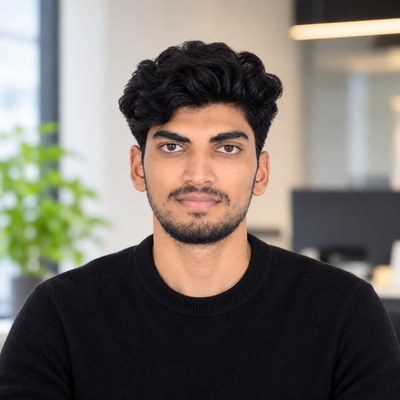
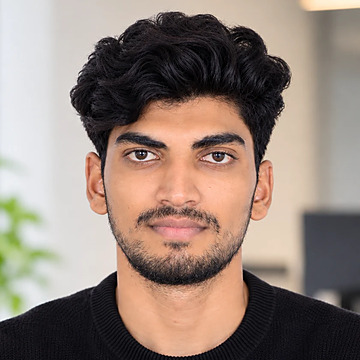
Crop the headshot tight so it stays sharp in the small circles

diff --git a/index.html b/index.html
@@ -92,7 +92,7 @@
                 <a class="btn-cta ghost" href="assets/MohammedJamal_Resume.pdf" target="_blank" rel="noopener"><span class="cta-icon"><svg viewBox="0 0 24 24" fill="none" stroke="currentColor" stroke-width="2.4" aria-hidden="true"><path d="M12 4v12M7 11l5 5 5-5M5 20h14"/></svg></span>Resume (PDF)</a>
             </div>
 
-            <div class="avatar left float"><img src="assets/profile.jpg?v=2" alt="" width="84" height="84"></div>
+            <div class="avatar left float"><img src="assets/profile.jpg?v=3" alt="" width="84" height="84"></div>
             <div class="avatar right float slow"><img src="assets/photography/03.jpg" alt="" width="84" height="84"></div>
         </section>
 
@@ -321,7 +321,7 @@
                 <div class="contact-stage">
                     <div class="me-card rv">
                         <span class="tape tc pink"></span>
-                        <div class="who"><img src="assets/profile.jpg?v=2" alt="" width="36" height="36">Mohammed Jamal</div>
+                        <div class="who"><img src="assets/profile.jpg?v=3" alt="" width="36" height="36">Mohammed Jamal</div>
                         <p>Looking for Product Designer roles at product companies, SaaS startups, and MNCs. Open to Chennai, Bangalore, and remote.</p>
                     </div>
                     <div class="big-card">

diff --git a/case-studies.html b/case-studies.html
@@ -102,7 +102,7 @@
                 <div class="contact-stage">
                     <div class="me-card rv">
                         <span class="tape tc pink"></span>
-                        <div class="who"><img src="assets/profile.jpg?v=2" alt="" width="36" height="36">Mohammed Jamal</div>
+                        <div class="who"><img src="assets/profile.jpg?v=3" alt="" width="36" height="36">Mohammed Jamal</div>
                         <p>Looking for a full-time product or enterprise design role, especially one with the messy, unglamorous problems in it.</p>
                     </div>
                     <div class="big-card">

diff --git a/docvault.html b/docvault.html
@@ -962,7 +962,7 @@
                 <div class="contact-stage">
                     <div class="me-card rv">
                         <span class="tape tc pink"></span>
-                        <div class="who"><img src="assets/profile.jpg?v=2" alt="" width="36" height="36">Mohammed Jamal</div>
+                        <div class="who"><img src="assets/profile.jpg?v=3" alt="" width="36" height="36">Mohammed Jamal</div>
                         <p>Looking for a full-time product or enterprise design role, especially one with the messy, unglamorous problems in it.</p>
                     </div>
                     <div class="big-card">

diff --git a/fuel-buddy.html b/fuel-buddy.html
@@ -626,7 +626,7 @@
                 <div class="contact-stage">
                     <div class="me-card rv">
                         <span class="tape tc pink"></span>
-                        <div class="who"><img src="assets/profile.jpg?v=2" alt="" width="36" height="36">Mohammed Jamal</div>
+                        <div class="who"><img src="assets/profile.jpg?v=3" alt="" width="36" height="36">Mohammed Jamal</div>
                         <p>Looking for a full-time product or enterprise design role, especially one with the messy, unglamorous problems in it.</p>
                     </div>
                     <div class="big-card">

diff --git a/nutridash.html b/nutridash.html
@@ -838,7 +838,7 @@
                 <div class="contact-stage">
                     <div class="me-card rv">
                         <span class="tape tc pink"></span>
-                        <div class="who"><img src="assets/profile.jpg?v=2" alt="" width="36" height="36">Mohammed Jamal</div>
+                        <div class="who"><img src="assets/profile.jpg?v=3" alt="" width="36" height="36">Mohammed Jamal</div>
                         <p>Looking for a full-time product or enterprise design role, especially one with the messy, unglamorous problems in it.</p>
                     </div>
                     <div class="big-card">
